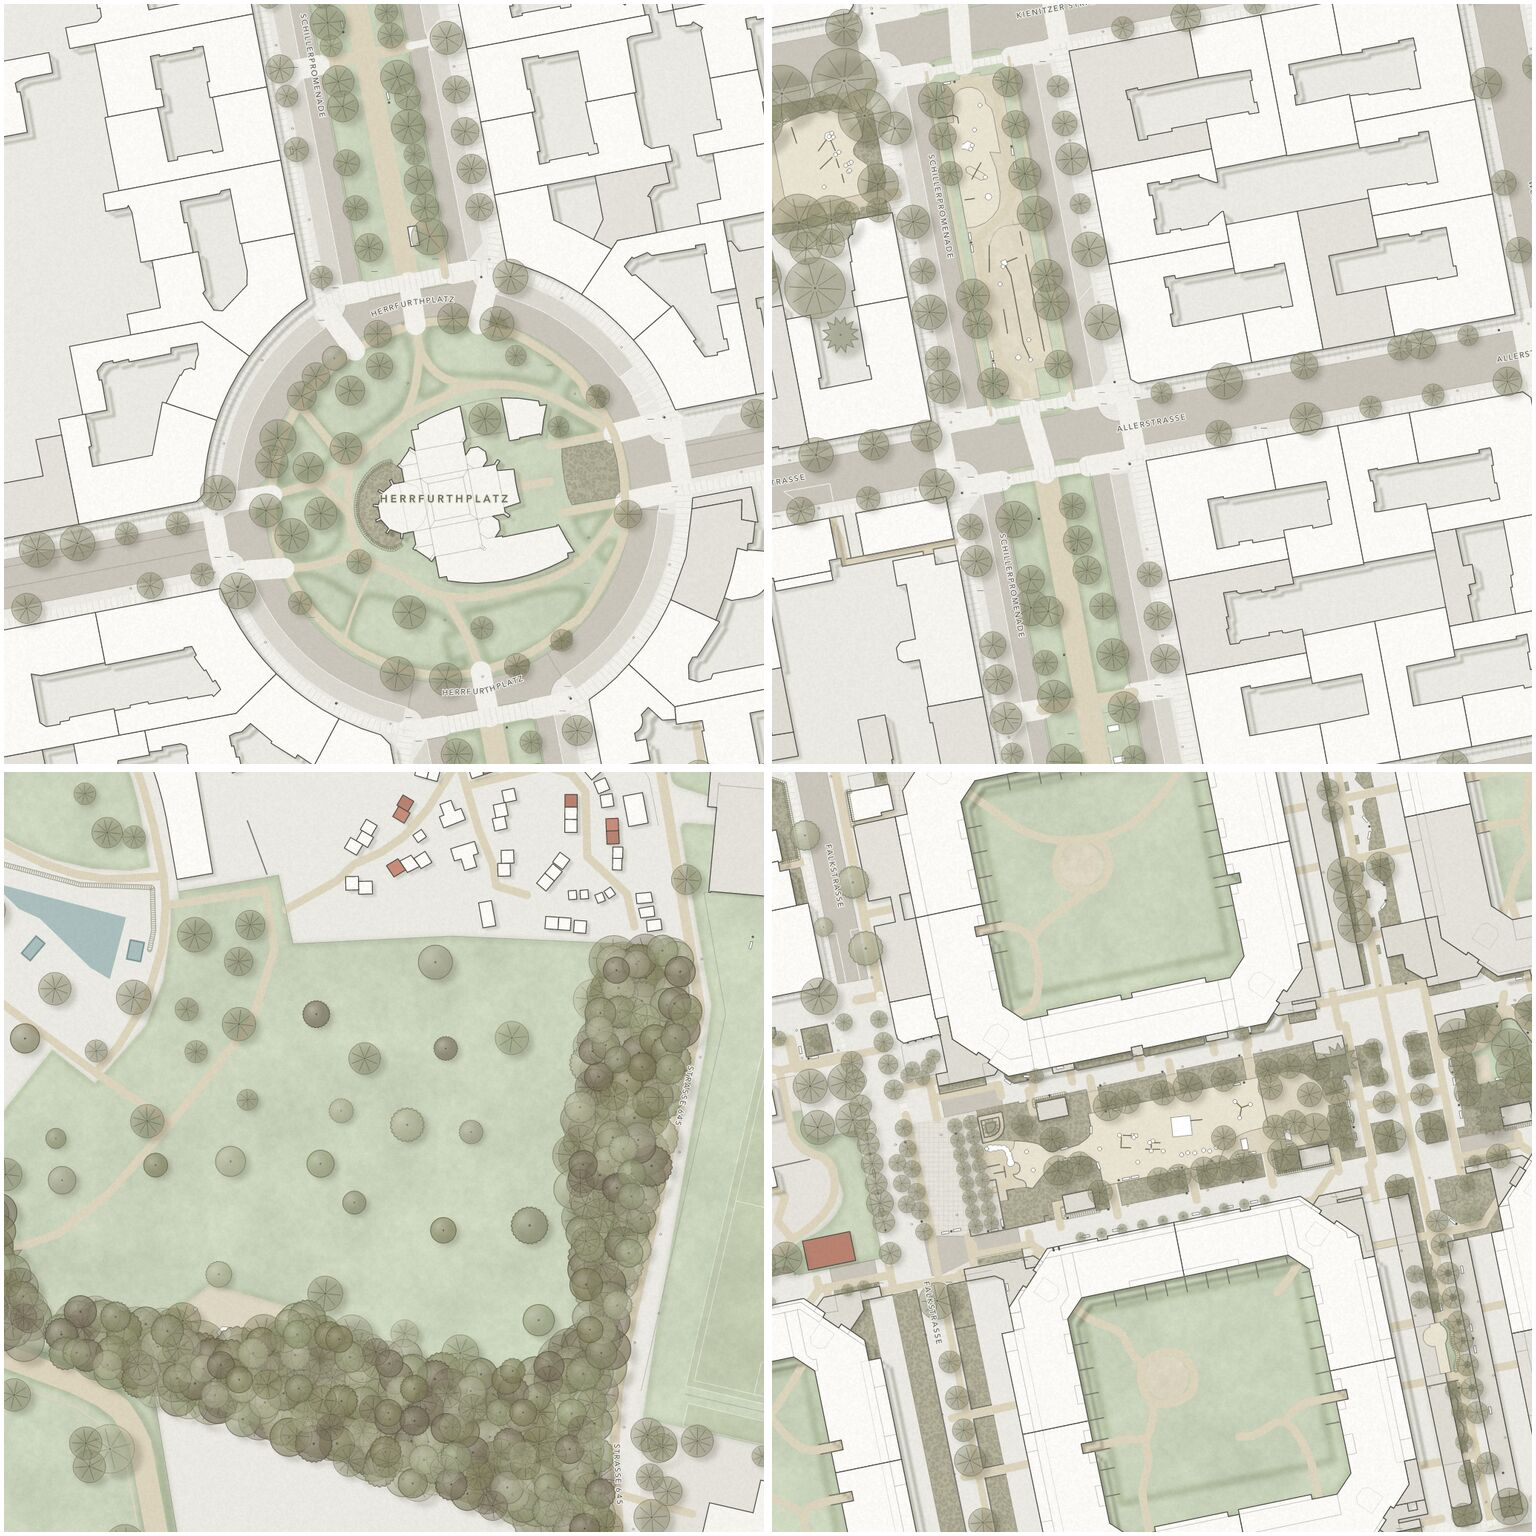
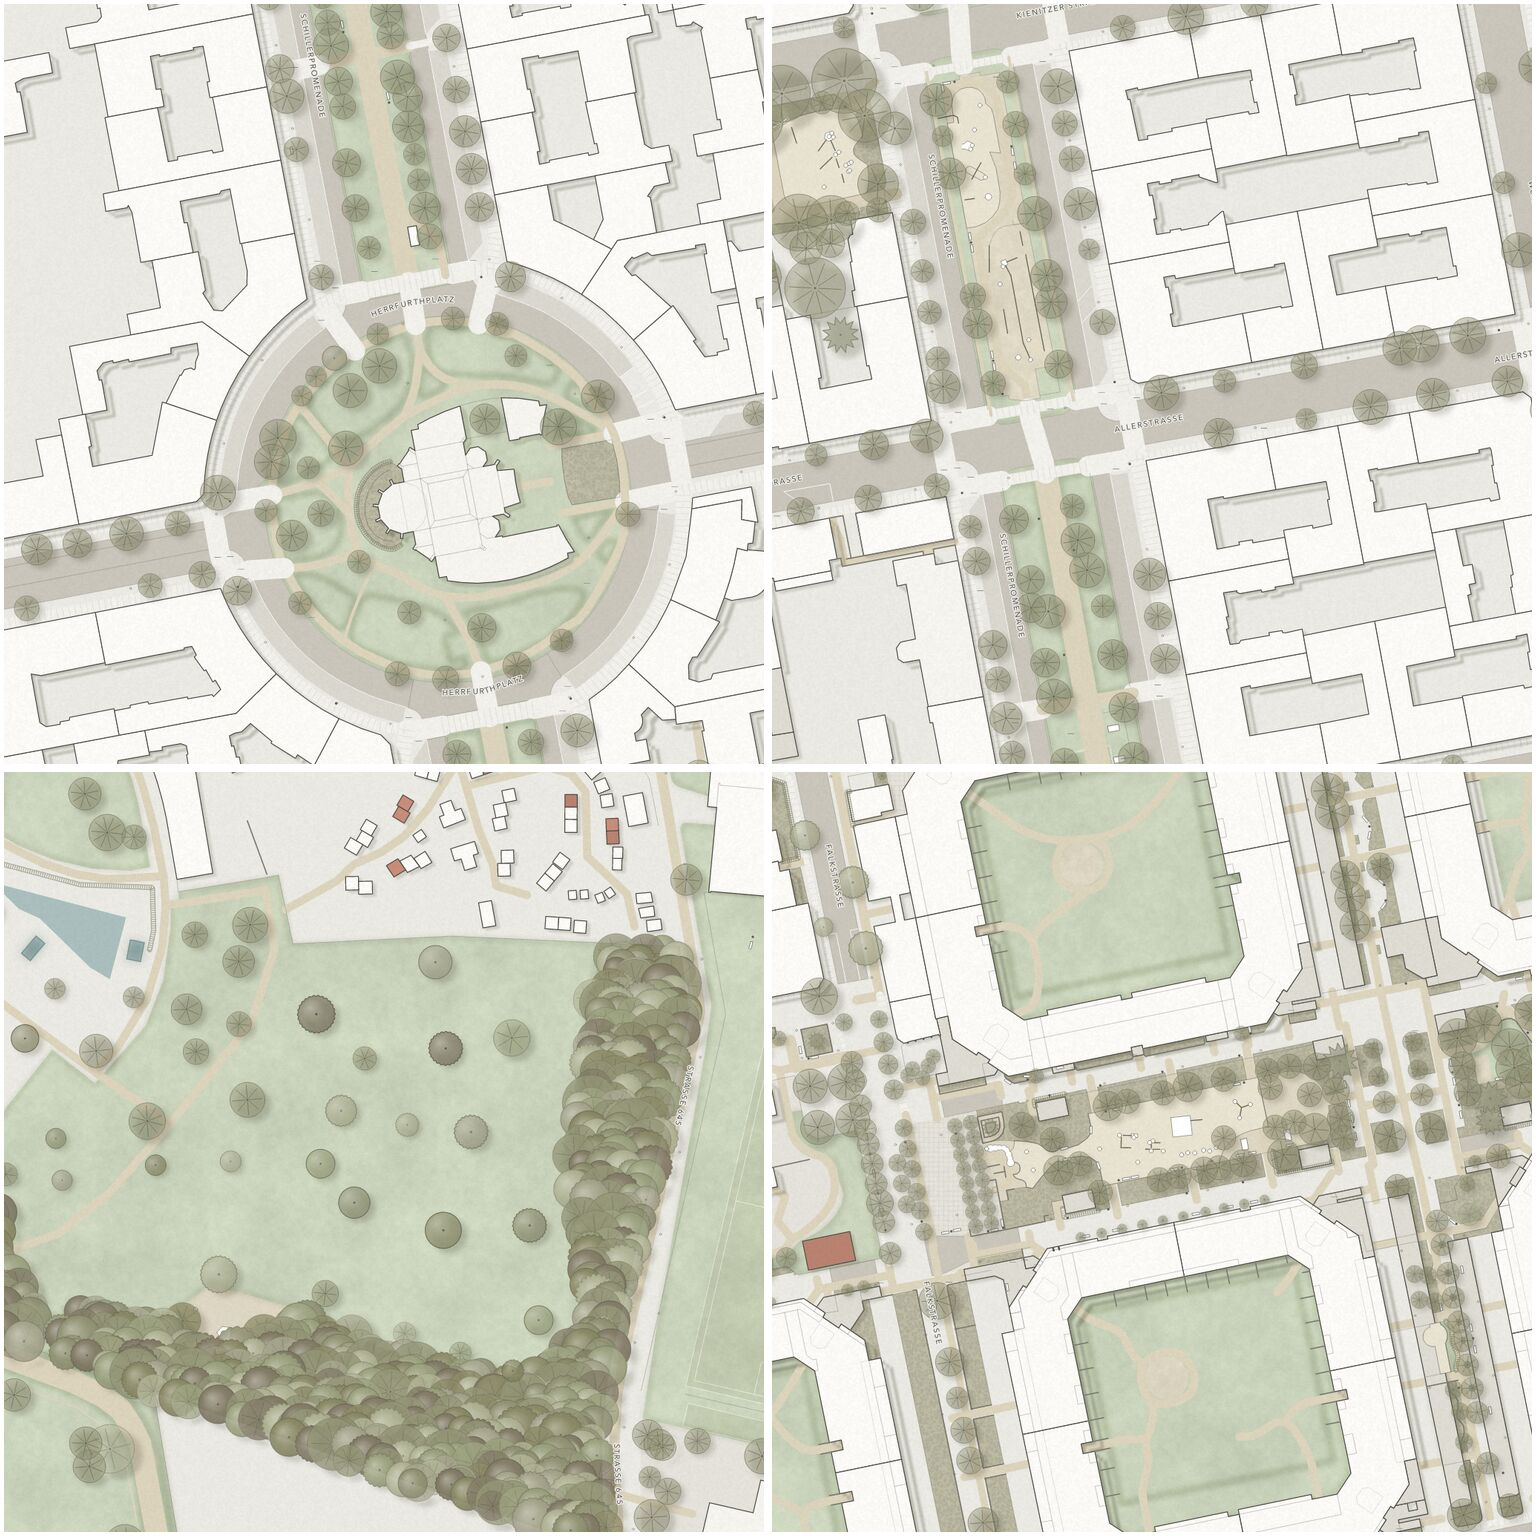
Design research: lighter ink shrub beds; refresh current images

diff --git a/rust/srk-render/src/style_ink.rs b/rust/srk-render/src/style_ink.rs
@@ -102,16 +102,18 @@ pub fn render(client: &mut Client, prep: &mut PreparedCache, extent: RenderExten
     // shrubs: small scribbled loops
     if let Some(mask) = mask_of(&ctx, &shrubs) {
         let mut pb = PathBuilder::new();
-        for (x, y, r) in world_scatter(&ctx, zcell(z, 1.4), 0.8, 43) {
+        // small open "c" loops (bush scribbles), sparse enough that the bed stays light
+        for (x, y, r) in world_scatter(&ctx, zcell(z, 2.0), 0.6, 43) {
             let (px, py) = ctx.extent.map_to_px(x, y);
-            let rr = ctx.m(zcell(z, 0.45 + 0.3 * f64::from(r))).max(1.2);
+            let rr = ctx.m(zcell(z, 0.5 + 0.3 * f64::from(r))).max(1.4);
             let pts = scallop_pts(px, py, rr, 5, 0.25, r * 6.0);
-            if let Some(p) = pts_path(&pts, true) {
+            let open = &pts[..pts.len() * 3 / 4];
+            if let Some(p) = pts_path(open, false) {
                 pb.push_path(&p);
             }
         }
         if let Some(p) = pb.finish() {
-            line(&mut pm, &p, &paint(ink(0.6)), &stroke(lw * 0.6), Some(&mask));
+            line(&mut pm, &p, &paint(ink(0.5)), &stroke(lw * 0.55), Some(&mask));
         }
     }
     // cemeteries: small scattered crosses (on top of the lawn texture)

diff --git a/docs/design-research/02-fantasy-ink-map/steps/16-lighter-shrubs/README.md b/docs/design-research/02-fantasy-ink-map/steps/16-lighter-shrubs/README.md
@@ -1,0 +1,5 @@
+# Ink 16 — lighter shrub beds
+
+- Shrub / flowerbed texture: sparser (2 m cell, 60 %) open "c"-shaped scribbles instead of dense closed loops, lighter ink. Formal beds (Körnerpark) no longer turn into black masses.
+
+**Look at:** `shrub.jpg` (Körnerpark, step 15 left / now right).
